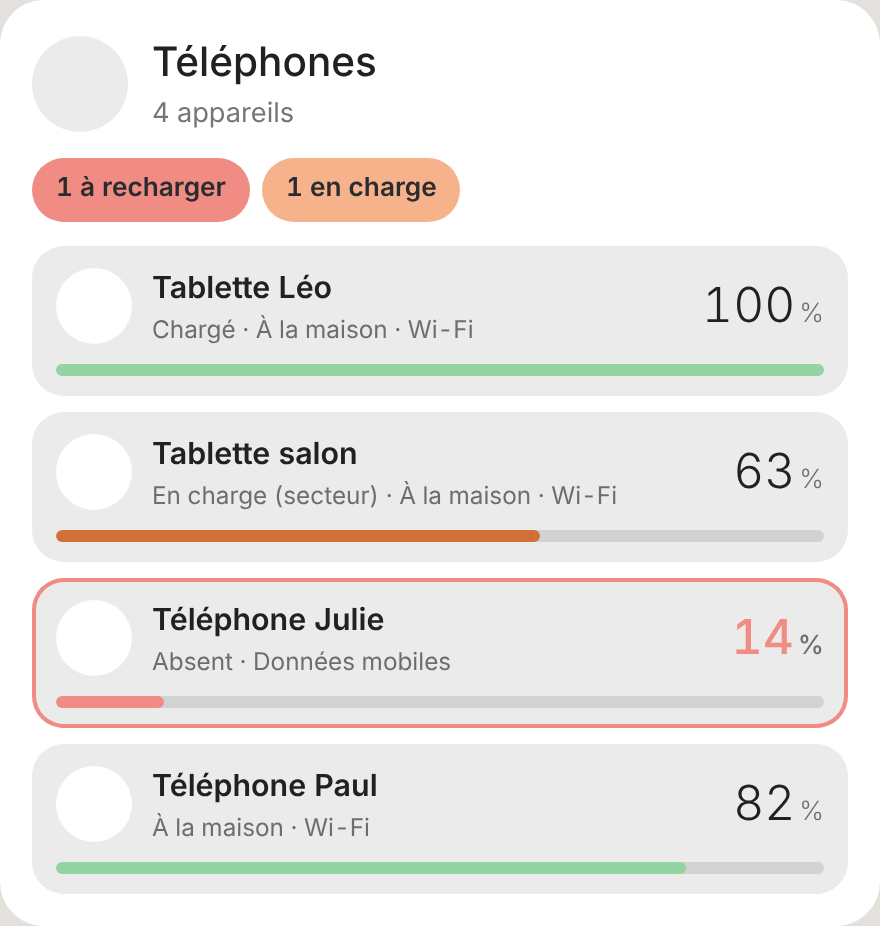
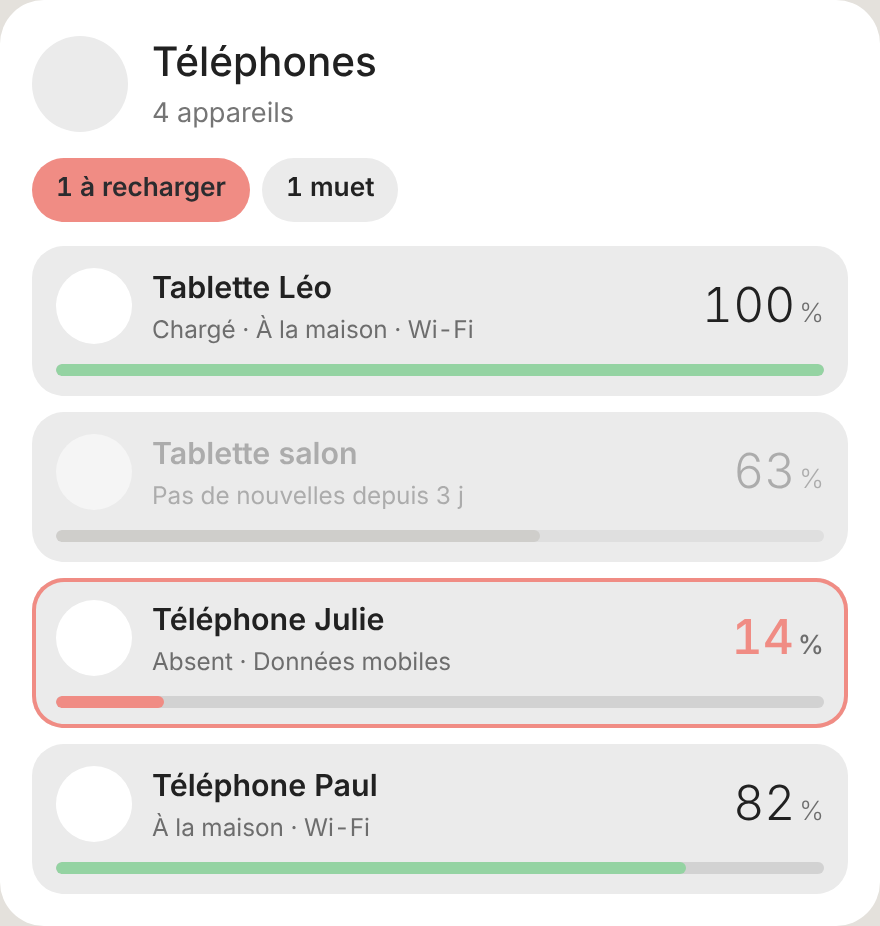
feat(web): appareils muets en gris, carte Téléphones et tablettes (0.2.6-beta)
Un appareil dont aucun capteur n'a été reçu depuis stale_hours (24 h par
défaut) passe en gris avec « Pas de nouvelles depuis… », sans compter
dans « en charge » ni « à recharger » ; l'en-tête compte les appareils
muets.

Claude-Session: https://claude.ai/code/session_01SRKBBjDQfQhyTgJMcHgPqQ

Changed region(s): [[0.0614, 0.4838, 0.7057, 0.6048], [0.2761, 0.1512, 0.5216, 0.2419], [0.8284, 0.4838, 0.9205, 0.5443]]

diff --git a/maison-ha-cards.js b/maison-ha-cards.js
@@ -25,7 +25,7 @@
  */
 
 (() => {
-const CARD_VERSION = "0.2.5-beta";
+const CARD_VERSION = "0.2.6-beta";
 
 /* ------------------------------------------------------------- utilitaires */
 
@@ -1852,7 +1852,7 @@ const TEL_FR = {
 };
 
 class MaisonTelephonesCard extends MaisonCard {
-  static get DEFAULTS() { return { theme: "maison", title: "Téléphones", low: 20, show_location: true }; }
+  static get DEFAULTS() { return { theme: "maison", title: "Téléphones", low: 20, show_location: true, stale_hours: 24 }; }
 
   _resolve(c, hass) {
     const reg = hass.entities || {}, devs = hass.devices || {};
@@ -1883,19 +1883,26 @@ class MaisonTelephonesCard extends MaisonCard {
     const st = hass.states;
     const val = (id) => { const s = id ? st[id]?.state : undefined; return s === undefined || BAD.has(s) ? null : s; };
     const low = num(c.low) ?? 20;
+    // appareil muet : aucun capteur reçu depuis stale_hours (appareil éteint, application arrêtée)
+    const staleMs = (num(c.stale_hours) ?? 24) * 3600e3;
     const info = list.map((d) => {
       const r = d.roles;
+      const seen = Math.max(0, ...Object.values(r).map((id) => {
+        const o = st[id];
+        return o ? Math.max(Date.parse(o.last_reported || 0) || 0, Date.parse(o.last_updated || 0) || 0, Date.parse(o.last_changed || 0) || 0) : 0;
+      }));
+      const muted = staleMs > 0 && seen > 0 && Date.now() - seen > staleMs;
       const bat = num(val(r.battery));
       const stTxt = String(val(r.state) || "").toLowerCase();
-      const charging = val(r.charging) === "on" || stTxt === "charging";
-      const full = stTxt === "full";
-      return { d, bat, charging, full, lowBat: bat !== null && bat <= low && !charging };
+      const charging = !muted && (val(r.charging) === "on" || stTxt === "charging");
+      const full = !muted && stTxt === "full";
+      return { d, bat, charging, full, muted, seen, lowBat: !muted && bat !== null && bat <= low && !charging };
     });
     const lowN = info.filter((x) => x.lowBat).length;
     const chN = info.filter((x) => x.charging).length;
     const open = this._ui.tel;
 
-    const tiles = info.map(({ d, bat, charging, full, lowBat }) => {
+    const tiles = info.map(({ d, bat, charging, full, lowBat, muted, seen }) => {
       const r = d.roles;
       const tr = r.tracker ? st[r.tracker] : null;
       const where = c.show_location !== false && tr && !BAD.has(tr.state)
@@ -1904,8 +1911,10 @@ class MaisonTelephonesCard extends MaisonCard {
       const ssid = val(r.wifi);
       const net = ssid && !/^<not connected>$|^non connecté$/i.test(ssid) ? "Wi-Fi" : TEL_FR[String(val(r.network) || "").toLowerCase()] || null;
       const charger = TEL_FR[String(val(r.charger) || "").toLowerCase()];
-      const sub = [charging ? `En charge${charger ? ` (${charger})` : ""}` : full ? "Chargé" : null, where, net].filter(Boolean).join(" · ");
-      const color = lowBat ? "var(--m-red)" : charging ? "var(--m-acc)" : levelBar(bat);
+      const sub = muted
+        ? `Pas de nouvelles ${relTime(new Date(seen).toISOString()) || ""}`.replace("il y a", "depuis")
+        : [charging ? `En charge${charger ? ` (${charger})` : ""}` : full ? "Chargé" : null, where, net].filter(Boolean).join(" · ");
+      const color = muted ? "var(--m-faint)" : lowBat ? "var(--m-red)" : charging ? "var(--m-acc)" : levelBar(bat);
       const isOpen = open === d.id;
       let detail = "";
       if (isOpen) {
@@ -1925,7 +1934,7 @@ class MaisonTelephonesCard extends MaisonCard {
         ].filter(([, , v]) => v !== null && v !== undefined && v !== "");
         detail = `<div class="tel-d">${rows.map(([ic, l, v, id]) => `<div class="tel-r"${this._click({ action: "more-info", entity: id }, null, l)}><ha-icon icon="${ic}"></ha-icon><span>${l}</span><b>${esc(v)}</b></div>`).join("")}</div>`;
       }
-      return `<div class="tel${isOpen ? " open" : ""}${lowBat ? " low" : ""}">
+      return `<div class="tel${isOpen ? " open" : ""}${lowBat ? " low" : ""}${muted ? " muted" : ""}"${muted ? ` title="Dernière valeur reçue : ${esc(new Date(seen).toLocaleString("fr-FR"))}"` : ""}>
         <div class="tel-h"${this._click({ action: "ui", set: { tel: isOpen ? null : d.id } }, { action: "more-info", entity: r.battery || r.tracker }, d.name)}>
           <div class="tel-ic${charging ? " ch" : ""}"><ha-icon icon="${d.tablet ? "mdi:tablet" : "mdi:cellphone"}"></ha-icon>${charging ? `<ha-icon class="tel-bolt" icon="mdi:lightning-bolt"></ha-icon>` : ""}</div>
           <div class="tel-t"><div class="tel-n">${esc(d.name)}</div><div class="tel-s">${esc(sub || d.model)}</div></div>
@@ -1936,7 +1945,8 @@ class MaisonTelephonesCard extends MaisonCard {
       </div>`;
     }).join("");
 
-    const sum = [lowN ? `<span class="chipx warn">${lowN} à recharger</span>` : "", chN ? `<span class="chipx on">${chN} en charge</span>` : ""].join("");
+    const mutedN = info.filter((x) => x.muted).length;
+    const sum = [lowN ? `<span class="chipx warn">${lowN} à recharger</span>` : "", chN ? `<span class="chipx on">${chN} en charge</span>` : "", mutedN ? `<span class="chipx">${mutedN} muet${mutedN > 1 ? "s" : ""}</span>` : ""].join("");
     return `<div class="dv"><div class="dv-h"><div class="dv-ic"><ha-icon icon="${esc(c.icon || "mdi:cellphone-link")}"></ha-icon></div>` +
       `<div class="dv-t"><div class="dv-n">${tpl(c.title ?? "Téléphones", hass)}</div><div class="dv-s">${list.length} appareil${list.length > 1 ? "s" : ""}</div></div>${sum ? `<div class="tel-sum">${sum}</div>` : ""}</div>` +
       `<div class="tel-g">${tiles}</div></div>`;
@@ -1953,6 +1963,8 @@ MaisonTelephonesCard.STYLE = `<style>${DEVICE_STYLE}
 .tel { background: var(--m-chip); border-radius: 16px; padding: 10px 12px; display: flex; flex-direction: column; gap: 8px; min-width: 0; }
 .tel.low { box-shadow: inset 0 0 0 2px var(--m-red); }
 .tel.open { grid-column: 1 / -1; }
+.tel.muted .tel-h, .tel.muted .tel-bar { opacity: .5; }
+.tel.muted .tel-ic ha-icon { color: var(--m-muted); }
 .tel-h { display: flex; align-items: center; gap: 10px; min-width: 0; }
 .tel-ic { position: relative; width: 38px; height: 38px; border-radius: 50%; background: var(--m-card); display: grid; place-items: center; flex: none; }
 .tel-ic ha-icon { --mdc-icon-size: 22px; color: var(--m-acc); }
@@ -2787,6 +2799,7 @@ const LABELS = {
   position: "Position", hash: "Lien d'ouverture (#…)", width_desktop: "Largeur sur ordinateur (ex. 70%)", auto_close: "Fermeture automatique (ms)",
   show_camera: "Afficher la caméra", file: "Fichier en cours",
   devices: "Appareils (vide = tous)", low: "Batterie faible à partir de (%)", show_location: "Afficher la zone (maison, absent…)",
+  stale_hours: "Appareil muet (gris) sans nouvelles depuis (heures, 0 = jamais)",
 };
 
 const EDITORS = {
@@ -2810,7 +2823,7 @@ const EDITORS = {
   "maison-voiture-card": [() => [T("name"), I("icon"), E("battery", "sensor"), E("range", "sensor"), E("odometer", "sensor"), E("charging"), E("plugged", "binary_sensor"),
     E("charger_power", "sensor"), E("climate", "climate"), E("lock", "lock"), E("location", "device_tracker"), T("prefix"), THEME_SELECT],
     "Tesla (Fleet, Teslemetry, Tessie, Tesla custom) est détectée seule. Pour une autre voiture, choisissez au moins la batterie."],
-  "maison-telephones-card": [() => [T("title"), I("icon"), { name: "devices", selector: { device: { integration: "mobile_app", multiple: true } } }, N("low", 0, 100), B("show_location"), THEME_SELECT],
+  "maison-telephones-card": [() => [T("title"), I("icon"), { name: "devices", selector: { device: { integration: "mobile_app", multiple: true } } }, N("low", 0, 100), N("stale_hours", 0, 720), B("show_location"), THEME_SELECT],
     "Les téléphones et tablettes de l'application Home Assistant (Companion) sont trouvés seuls. Un clic sur un appareil affiche son détail."],
   "maison-imprimante-card": [() => [T("name"), T("prefix"), E("progress", "sensor"), E("remaining", "sensor"), E("stage", "sensor"), E("nozzle", "sensor"), E("bed", "sensor"),
     E("camera", "camera"), E("pause", "button"), E("resume", "button"), E("stop", "button"),

diff --git a/docs/demo-hass.js b/docs/demo-hass.js
@@ -65,7 +65,7 @@
       ["tab_leo", "Tablette Léo", "Xiaomi Pad 6", 100, "full", "home", "Maison", 18, "wifi"]];
     for (const [k, name, model, bat, bs, where, ssid, store, net] of phones) {
       devices[k] = { id: k, name, manufacturer: model.split(" ")[0], model: model.split(" ").slice(1).join(" ") };
-      const m = (dom, suf, v, attrs = {}) => s(`${dom}.${k}_${suf}`, v, attrs, { p: "mobile_app", dev: k });
+      const m = (dom, suf, v, attrs = {}) => s(`${dom}.${k}_${suf}`, v, attrs, { p: "mobile_app", dev: k, ...(k === "tab_salon" && o.phoneOff ? { lc: iso(-3 * D) } : {}) });
       m("sensor", "battery_level", bat, { unit_of_measurement: "%", device_class: "battery" });
       m("sensor", "battery_state", bs);
       m("binary_sensor", "is_charging", bs === "charging" ? "on" : "off");
@@ -81,7 +81,7 @@
       m("sensor", "current_version", "2026.10.1-full");
       if (k.startsWith("tel")) m("sensor", "daily_steps", k === "tel_paul" ? 6420 : 9810, { unit_of_measurement: "steps" });
       m("sensor", "ringer_mode", k === "tel_julie" ? "vibrate" : "normal");
-      s(`device_tracker.${k}`, where, { source_type: "gps" }, { p: "mobile_app", dev: k });
+      s(`device_tracker.${k}`, where, { source_type: "gps" }, { p: "mobile_app", dev: k, ...(k === "tab_salon" && o.phoneOff ? { lc: iso(-3 * D) } : {}) });
     }
     s("sensor.cuisine_alfred_battery", 80, { unit_of_measurement: "%", device_class: "battery" }, { p: "roborock", dev: "alfred" });
     s("input_boolean.vider_bac_poussiere", o.bac === false ? "off" : "on", { friendly_name: "Vider le bac" });

diff --git a/docs/demo.html b/docs/demo.html
@@ -207,7 +207,7 @@
     const [t, n] = state.tempo.split("|");
     const h = window.makeHass({
       dark: state.page === "dark", alarm: state.alarm, tempo: t, tempoNext: n, vacuum: state.vacuum,
-      printing: state.printing === "on", media: state.media === "on", chauffage: state.chauffage,
+      printing: state.printing === "on", media: state.media === "on", chauffage: state.chauffage, phoneOff: state.card === "telephones",
     });
     if (state.vacuum === "error") h.states["vacuum.alfred"].attributes = { ...h.states["vacuum.alfred"].attributes, error: "Brosse principale bloquée", status: "Erreur" };
     h.callService = (d, s, data, target) => {

diff --git a/README.md b/README.md
@@ -349,7 +349,9 @@ Tous les téléphones et tablettes de l'application **Home Assistant (Companion)
 
 Un clic sur un appareil affiche son détail : santé et température de la batterie, temps avant charge complète, réseau Wi-Fi et signal, stockage libre, prochaine alarme, pas du jour, sonnerie, ne pas déranger, dernier redémarrage, version d'Android et de l'application. Un appui long ouvre la fiche de la batterie. Les capteurs désactivés dans l'application sont simplement absents.
 
-`devices` (liste d'appareils, vide = tous), `low` (batterie faible, `20` %), `show_location` (`true`), `title`, `icon`.
+Un appareil **muet** (éteint, application arrêtée), dont aucun capteur n'a été reçu depuis `stale_hours` heures, passe en **gris** avec « Pas de nouvelles depuis 3 j » : sa dernière batterie connue reste affichée en pâle, et il ne compte ni dans « en charge » ni dans « à recharger ». L'en-tête compte les appareils muets.
+
+`devices` (liste d'appareils, vide = tous), `low` (batterie faible, `20` %), `stale_hours` (appareil muet, `24` h, `0` = jamais), `show_location` (`true`), `title`, `icon`.
 
 | Sombre, détail d'un appareil | Clair |
 | --- | --- |
